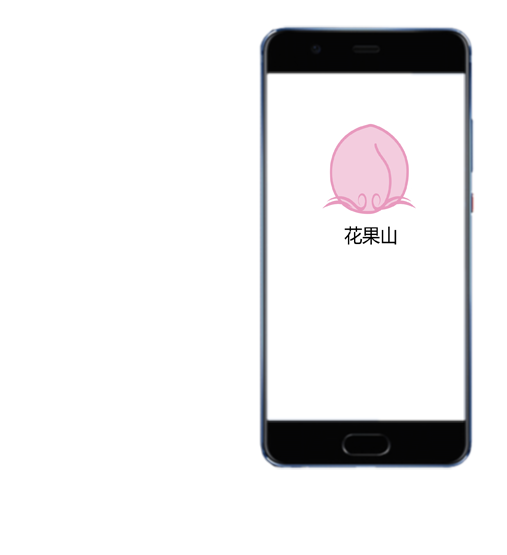
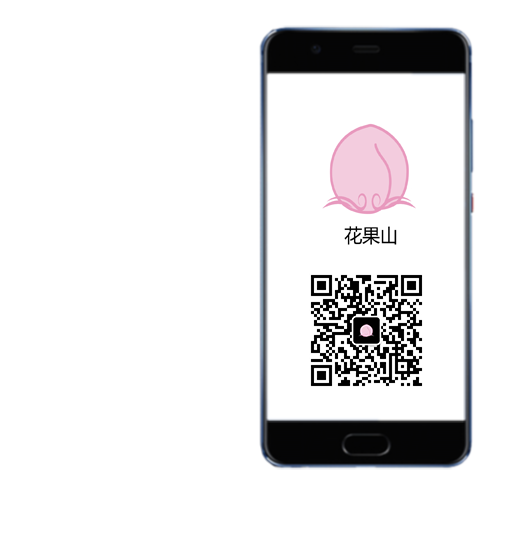
init

Changed region(s): [[0.5917, 0.4901, 0.858, 0.7045]]

diff --git a/index.html b/index.html
@@ -43,7 +43,7 @@
                     <a href="#" id="page_download_button_iPhone">
                         <div id="page_download_pc_iPhone"></div>
                     </a>
-                    <a href="https://s1.asytech.cn/s/cSEGz3NKLYJY9QR/download" id="page_download_button_android">
+                    <a href="http://p03b3xtpm.bkt.clouddn.com/com.guangsuyingyin.apk" id="page_download_button_android">
                         <div id="page_download_pc_android"></div>
                     </a>
                 </div>
@@ -159,15 +159,16 @@
         <a href='#' id='nav_iPhone'>
             <div id='nav_iPhone_img'></div>
         </a>
-        <a href='https://s1.asytech.cn/s/cSEGz3NKLYJY9QR/download' id='nav_android'>
+        <a href='http://p03b3xtpm.bkt.clouddn.com/com.guangsuyingyin.apk' id='nav_android'>
             <div id='nav_android_img'></div>
         </a>
         <div id='nav_QRCode'>
-            <!-- <div id='nav_QRCode_img'></div>
+            <div id='nav_QRCode_img'></div>
             <div id='nav_QRCode_hover'>
                 <div id='nav_QRCode_hover_border'>
+                    <div id='nav_QRCode_hover_img'></div>
                 </div>
-            </div> -->
+            </div>
         </div>
     </div>
     <div id='load'>
